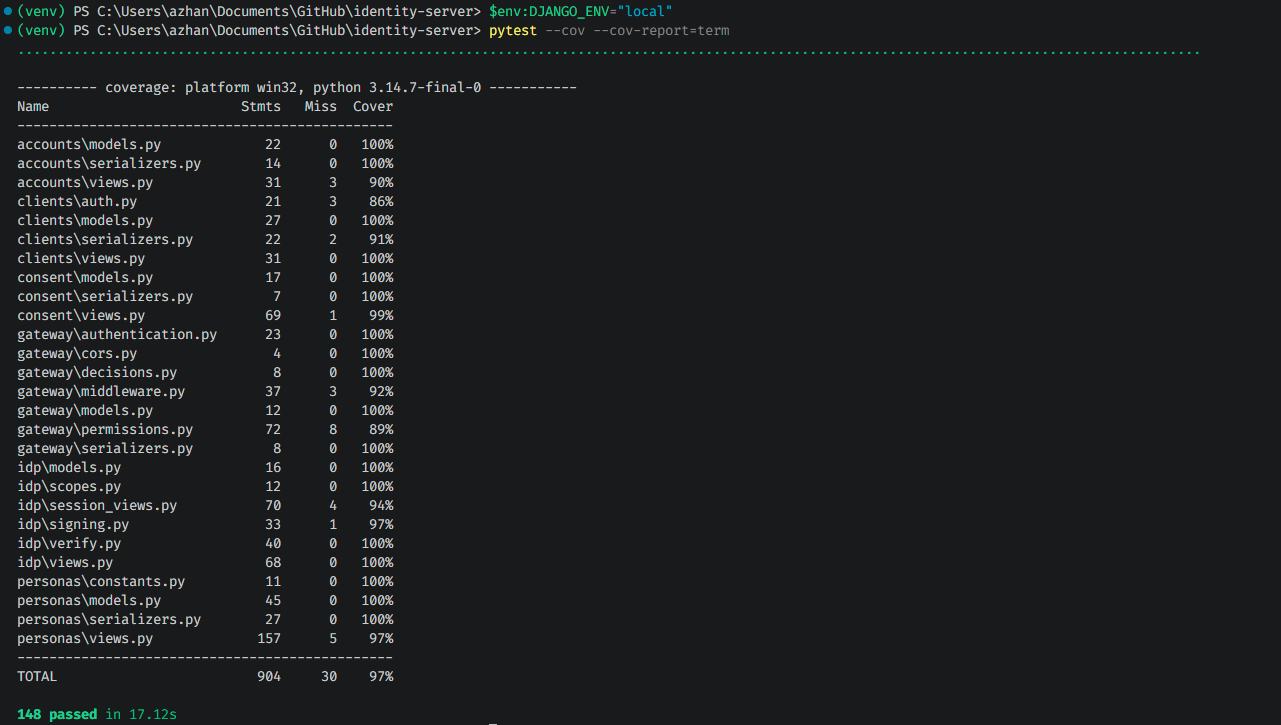
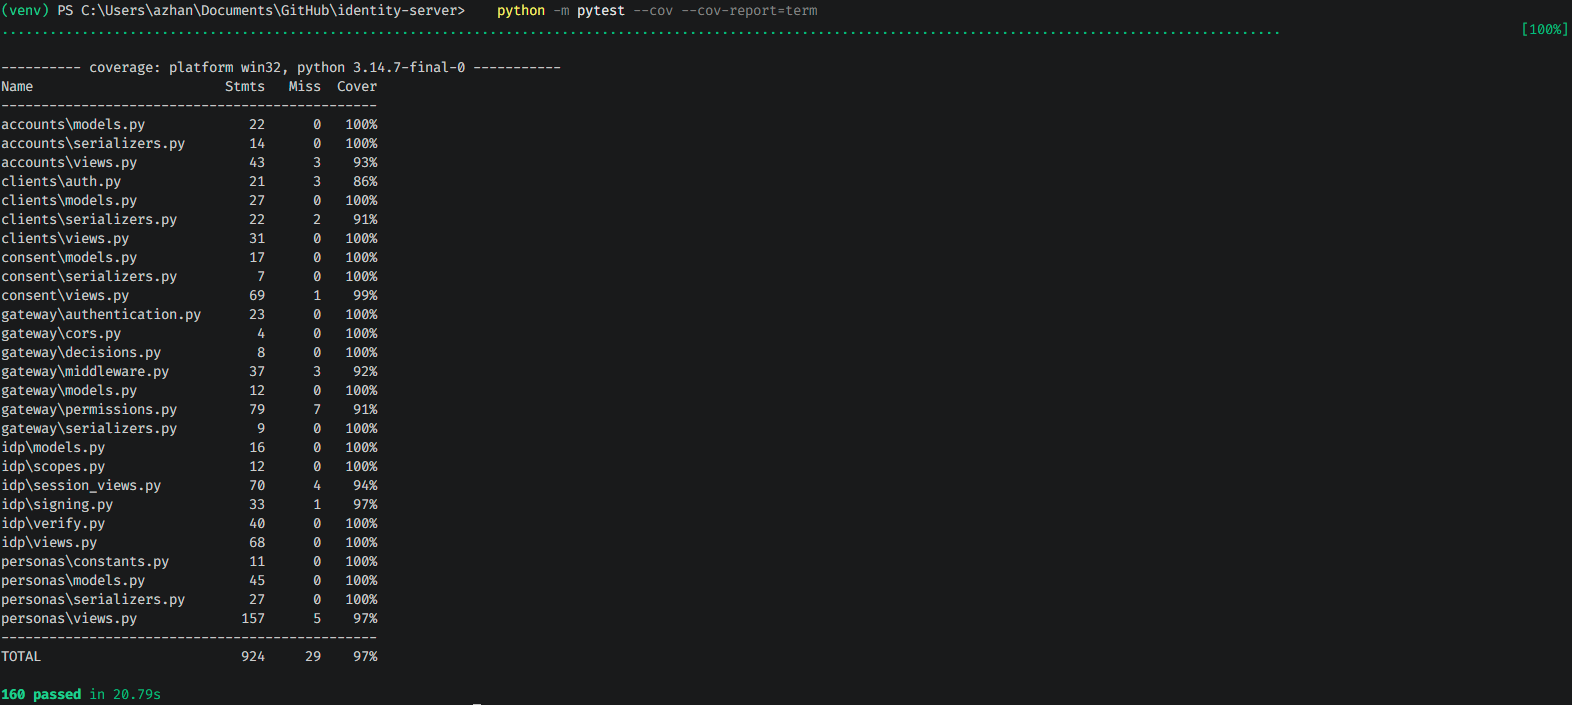
Phase 6 – Added Missing Delete Route and Bug Fixes

diff --git a/tests/test_account_deletion.py b/tests/test_account_deletion.py
@@ -1,0 +1,100 @@
+"""DELETE /api/v1/users/{id}: account erasure by the owner (Table 3, Chapter III H)."""
+
+import pytest
+
+from accounts.models import User
+from clients.models import ApiClient
+from consent.models import ConsentGrant
+from gateway.models import AccessLog
+from idp.models import RevokedToken
+from personas.models import ContextualName, Persona, PersonaAttribute
+
+from .conftest import FIRST_PARTY, bearer, get_token, grant, login
+
+pytestmark = pytest.mark.django_db
+
+def delete_account(api, user, token, origin=FIRST_PARTY):
+    return api.delete(f"/api/v1/users/{user.id}", **bearer(token, origin))
+
+def test_owner_deletes_account(api, user):
+    session = login(api, user)
+    response = delete_account(api, user, session)
+    assert response.status_code == 204
+    assert not User.objects.filter(id=user.id).exists()
+
+def test_deletion_removes_all_identity_data(api, user, other_user, client_app):
+    grant(user, client_app[0], "gaming")
+    session = login(api, user)
+    assert delete_account(api, user, session).status_code == 204
+    assert not Persona.objects.filter(user_id=user.id).exists()
+    assert not PersonaAttribute.objects.filter(persona__user_id=user.id).exists()
+    assert not ContextualName.objects.filter(user_id=user.id).exists()
+    assert not ConsentGrant.objects.filter(user_id=user.id).exists()
+    assert not ApiClient.objects.filter(owner_id=user.id).exists()
+
+def test_other_accounts_are_untouched(api, user, other_user):
+    session = login(api, user)
+    delete_account(api, user, session)
+    assert User.objects.filter(id=other_user.id).exists()
+    assert Persona.objects.filter(user_id=other_user.id).count() == 3
+    assert ContextualName.objects.filter(user_id=other_user.id).count() == 3
+
+def test_session_token_is_revoked(api, user):
+    session = login(api, user)
+    delete_account(api, user, session)
+    assert RevokedToken.objects.count() == 1
+    response = api.get("/api/v1/consents", **bearer(session, FIRST_PARTY))
+    assert response.status_code == 401 and response.json()["detail"] == "token revoked"
+
+def test_second_session_is_refused(api, user):
+    first = login(api, user)
+    second = login(api, user)
+    delete_account(api, user, first)
+    response = api.get(f"/api/v1/users/{user.id}/personas", **bearer(second, FIRST_PARTY))
+    assert response.status_code == 401 and response.json()["detail"] == "account deleted"
+    response = api.get("/api/v1/consents", **bearer(second, FIRST_PARTY))
+    assert response.status_code == 401 and response.json()["detail"] == "account deleted"
+
+def test_refresh_cookie_stops_working(api, user):
+    session = login(api, user)  # sets the refresh cookie on the test client
+    delete_account(api, user, session)
+    response = api.post("/api/v1/auth/refresh", HTTP_ORIGIN=FIRST_PARTY)
+    assert response.status_code == 401
+
+def test_client_token_loses_access(api, user, other_user, client_app):
+    grant(other_user, client_app[0], "gaming")
+    token = get_token(api, client_app, other_user, "read:profile:gaming")
+    session = login(api, other_user)
+    assert delete_account(api, other_user, session).status_code == 204
+    response = api.get(f"/api/v1/users/{other_user.id}/personas/gaming", **bearer(token))
+    assert response.status_code == 403 and response.json()["detail"] == "no active consent"
+
+def test_not_signed_in(api, user):
+    response = api.delete(f"/api/v1/users/{user.id}", HTTP_ORIGIN=FIRST_PARTY)
+    assert response.status_code == 401
+    assert User.objects.filter(id=user.id).exists()
+
+def test_not_the_account_owner(api, user, other_user):
+    session = login(api, other_user)
+    response = delete_account(api, user, session)
+    assert response.status_code == 403 and response.json()["detail"] == "not the account owner"
+    assert User.objects.filter(id=user.id).exists()
+
+def test_client_token_cannot_delete(api, user, client_app):
+    grant(user, client_app[0], "gaming", "read:profile:gaming write:profile:gaming")
+    token = get_token(api, client_app, user, "write:profile:gaming")
+    response = api.delete(f"/api/v1/users/{user.id}", **bearer(token))
+    assert response.status_code == 403 and response.json()["detail"] == "session token required"
+    assert User.objects.filter(id=user.id).exists()
+
+def test_foreign_origin_is_refused(api, user):
+    session = login(api, user)
+    response = delete_account(api, user, session, origin="https://evil.example")
+    assert response.status_code == 403
+    assert User.objects.filter(id=user.id).exists()
+
+def test_deletion_is_audited(api, user):
+    session = login(api, user)
+    delete_account(api, user, session)
+    row = AccessLog.objects.filter(endpoint=f"/api/v1/users/{user.id}").latest("id")
+    assert (row.method, row.decision, row.reason, row.status_code) == ("DELETE", "allow", "account deleted", 204)

diff --git a/accounts/views.py b/accounts/views.py
@@ -1,11 +1,14 @@
 from django.db import IntegrityError, transaction
 from rest_framework import status
+from rest_framework.exceptions import PermissionDenied
 from rest_framework.response import Response
 from rest_framework.throttling import ScopedRateThrottle
 from rest_framework.views import APIView
 
-from gateway.decisions import record
-from gateway.permissions import AllowPublic
+from gateway.decisions import deny, record
+from gateway.permissions import AllowPublic, SessionPermission
+
+from idp import verify
 
 from personas.constants import CONTEXTS
 from personas.models import Persona
@@ -39,3 +42,25 @@ class RegisterView(APIView):
             return Response({"detail": "email already in use"}, status=status.HTTP_409_CONFLICT)
         
         return Response({"id": str(user.id), "email": user.email}, status=status.HTTP_201_CREATED)
+
+class UserDetailView(APIView):
+    """DELETE /api/v1/users/{id} — the account owner erases the whole identity (GDPR Art. 17)."""
+
+    permission_classes = [SessionPermission]  # client tokens get 403 "session token required"
+
+    def delete(self, request, user_id):
+        claims = request.auth
+
+        if str(user_id) != claims["sub"]:
+            deny(request, PermissionDenied, "not the account owner")
+
+        # The foreign keys cascade: personas, persona attributes, contextual names,
+        # consent grants and the API clients this user registered are all removed.
+        User.objects.filter(id=user_id).delete()
+
+        # Revoke the token used for this request. Other session and refresh tokens
+        # fail the account check, and client tokens fail the consent check.
+        verify.revoke(claims)
+
+        record(request, "allow", "account deleted")
+        return Response(status=status.HTTP_204_NO_CONTENT)

diff --git a/gateway/permissions.py b/gateway/permissions.py
@@ -3,6 +3,7 @@ from django.conf import settings
 from rest_framework.exceptions import AuthenticationFailed, NotAuthenticated, PermissionDenied
 from rest_framework.permissions import BasePermission
 
+from accounts.models import User
 from clients.models import ApiClient
 from consent.models import ConsentGrant
 from idp.verify import is_revoked
@@ -33,6 +34,11 @@ def consent_active(user_id, client_pk, persona, scope):
     
     grant = grants.filter(persona_context=persona).first()
     return grant is not None and scope in grant.scope.split()
+
+def account_active(user_id):
+    """A session token outlives a deleted account by up to 15 minutes. This check closes that gap."""
+
+    return User.objects.filter(id=user_id, is_active=True).exists()
 
 def first_party_origin_ok(request):
     origin = request_origin(request)
@@ -66,6 +72,9 @@ class SessionPermission(BasePermission):
         if claims["typ"] != "session":
             deny(request, PermissionDenied, "session token required")
 
+        if not account_active(claims["sub"]):
+            deny(request, AuthenticationFailed, "account deleted")
+
         if not first_party_origin_ok(request):
             deny(request, PermissionDenied, "origin not registered")
 
@@ -88,6 +97,8 @@ class PersonaScopePermission(BasePermission):
             deny(request, PermissionDenied, "subject mismatch")
 
         if claims["typ"] == "session":                         # owner managing own data
+            if not account_active(claims["sub"]):
+                deny(request, AuthenticationFailed, "account deleted")
             if not first_party_origin_ok(request):
                 deny(request, PermissionDenied, "origin not registered")
             record(request, "allow", "owner", persona=view.kwargs.get("context"))

diff --git a/config/urls.py b/config/urls.py
@@ -1,6 +1,6 @@
 from django.urls import path
 
-from accounts.views import RegisterView
+from accounts.views import RegisterView, UserDetailView
 from clients.views import ClientListCreateView, ClientPublicView
 from consent.views import ConsentDetailView, ConsentListCreateView
 from idp.session_views import LoginView, LogoutView, RefreshView
@@ -24,6 +24,7 @@ urlpatterns = [
     
     # accounts and personas
     path("api/v1/users", RegisterView.as_view(), name="users"),
+    path("api/v1/users/<uuid:user_id>", UserDetailView.as_view(), name="user"),
     path("api/v1/users/<uuid:user_id>/personas", PersonaListView.as_view(), name="personas"),
     path("api/v1/users/<uuid:user_id>/personas/<str:context>", PersonaDetailView.as_view(), name="persona"),
     path("api/v1/users/<uuid:user_id>/names", NamesView.as_view(), name="names"),

diff --git a/idp/scopes.py b/idp/scopes.py
@@ -4,7 +4,7 @@ from personas.constants import CONTEXTS
 
 SCOPE_PATTERN = re.compile(r"^(read|write):profile:(professional|personal|gaming|\*)$")
 SCOPE_FORMAT_HINT = (
-    "Send one scope in the form read:profile:<context> or write:profile:<context>"
+    "Send one scope in the form read:profile:<context> or write:profile:<context>. "
     f"<context> must be one of {', '.join(CONTEXTS)}, in lower case. "
     "read:profile:* reads every persona the user has consented to."
 )

diff --git a/gateway/serializers.py b/gateway/serializers.py
@@ -4,6 +4,8 @@ class StrictSerializer(serializers.Serializer):
     """Reject unexpected fields instead of ignoring them (mass assignment defence)."""
 
     def to_internal_value(self, data):
+        unknown = []
+
         if hasattr(data, "keys"):
             unknown = sorted(set(data.keys()) - set(self.fields))
             

diff --git a/README.md b/README.md
@@ -237,7 +237,7 @@ https://github.com/azhabalouch/identity-client
 
 ## Phase 5 - Unit Testing and Evaluation
 
-At the end of this phase the automated suite passes, the tests are shown to catch broken security rules. When I ran this suite against the code, 148 tests passed with 97% line coverage (migrations and app configs excluded) Why the Final Score Is 97% Instead of 100% The remaining 30 missed statements belong to defensive fallback code and edge-case exceptions that were never triggered during the 148 test runs
+At the end of this phase the automated suite passes, the tests are shown to catch broken security rules. When I ran this suite against the code, 160 tests passed with 97% line coverage (migrations and app configs excluded) Why the Final Score Is 97% Instead of 100% The remaining 29 missed statements belong to defensive fallback code and edge-case exceptions that were never triggered during the 160 test runs
 
 | Test File | Tests | Report Group (Chapter V B) |
 | :--- | :---: | :--- |
@@ -249,8 +249,9 @@ At the end of this phase the automated suite passes, the tests are shown to catc
 | `test_consent_lifecycle.py` | 8 | Consent lifecycle |
 | `test_audit.py` | 4 | Audit trail (new group) |
 | `test_boundaries.py` | 7 | Architecture rules (new group) |
-| **Total** | **148** | Each parametrised case counts as one test |
+| `test_account_deletion.py` | 12 | Account deletion (new group) |
+| **Total** | **160** | Each parametrised case counts as one test |
 
 ![Phase 5 - Unit Testing Running](evidence/phase5-testing-and-evaluation.png)
 
-Pass: 148 passed 
+Pass: 160 passed 
